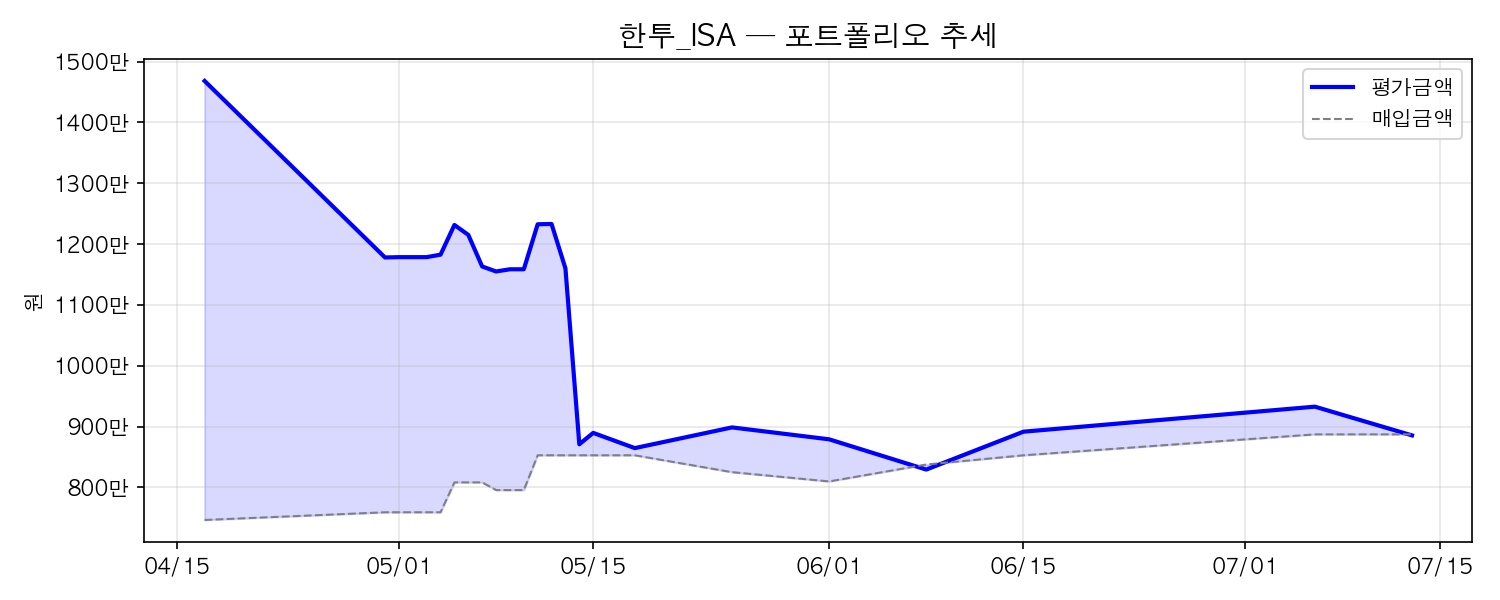
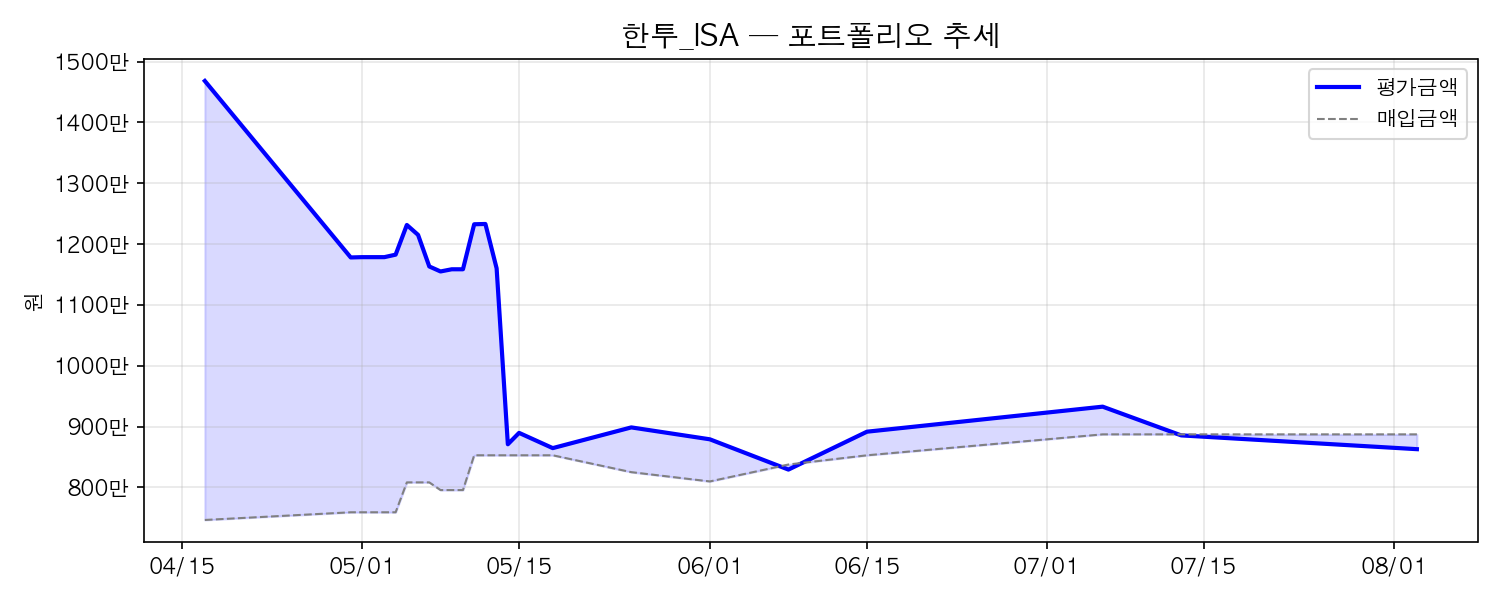
섹션별 주간 리포트 (자동 생성)

diff --git a/_posts/2026-08-07-etf-weekly-week18.md b/_posts/2026-08-07-etf-weekly-week18.md
@@ -1,0 +1,50 @@
+---
+layout: post
+title: "Week 18 — 부모님 연금 ETF 주간 리포트"
+date: 2026-08-07
+categories: [investing, etf]
+tags: [weekly]
+---
+
+> 부모님 연금저축 ETF 실험 — 18주차 기록.
+
+---
+
+## 18주차 성과
+
+### 엄마_연금
+
+| 종목 | 수량 | 평단가 | 종가 | 평가액 | 수익률 |
+|------|------|--------|------|--------|--------|
+| ACE KRX금현물 | 42주 | ₩30,882 | ₩25,920 | ₩1,088,640 | -16.1% |
+| RISE 200 | 9주 | ₩80,163 | ₩99,955 | ₩899,595 | +24.7% |
+| KODEX 미국S&P500 | 34주 | ₩22,947 | ₩24,270 | ₩825,180 | +5.8% |
+| TIGER Fn신재생에너지 | 24주 | ₩28,056 | ₩19,815 | ₩475,560 | -29.4% |
+| KODEX 인도Nifty50 | 32주 | ₩12,525 | ₩12,290 | ₩393,280 | -1.9% |
+| TIGER 원유선물Enhanced(H) | 41주 | ₩6,413 | ₩6,550 | ₩268,550 | +2.1% |
+
+**투자 ₩4,135,767 → 평가 ₩3,950,805 | -184,962원 (-4.5%)**
+
+예수금: ₩2,475,958
+---
+
+### 아빠_연금
+
+| 종목 | 수량 | 평단가 | 종가 | 평가액 | 수익률 |
+|------|------|--------|------|--------|--------|
+| ACE KRX금현물 | 42주 | ₩30,883 | ₩25,920 | ₩1,088,640 | -16.1% |
+| RISE 200 | 9주 | ₩80,165 | ₩99,955 | ₩899,595 | +24.7% |
+| KODEX 미국S&P500 | 34주 | ₩22,945 | ₩24,270 | ₩825,180 | +5.8% |
+| TIGER Fn신재생에너지 | 24주 | ₩28,048 | ₩19,815 | ₩475,560 | -29.4% |
+| KODEX 인도Nifty50 | 32주 | ₩12,535 | ₩12,290 | ₩393,280 | -1.9% |
+| TIGER 원유선물Enhanced(H) | 41주 | ₩6,405 | ₩6,550 | ₩268,550 | +2.2% |
+| PLUS 고배당주 | 1주 | ₩25,370 | ₩23,960 | ₩23,960 | -5.5% |
+
+**투자 ₩4,160,932 → 평가 ₩3,974,765 | -186,167원 (-4.5%)**
+
+예수금: ₩1,861,134
+
+
+---
+
+*데이터: 한국투자증권 KIS Open API / 2026-08-07 장 마감 기준*

diff --git a/_posts/2026-08-07-dividend-weekly-week18.md b/_posts/2026-08-07-dividend-weekly-week18.md
@@ -1,0 +1,32 @@
+---
+layout: post
+title: "Week 18 — ISA 배당 포트 주간 리포트"
+date: 2026-08-07
+categories: [investing, dividend]
+tags: [weekly]
+---
+
+> ISA 배당 포트폴리오 — 18주차 기록.
+
+---
+
+## 18주차 성과
+
+### 한투_ISA
+
+| 종목 | 수량 | 평단가 | 종가 | 평가액 | 수익률 |
+|------|------|--------|------|--------|--------|
+| 삼성화재우 | 5주 | ₩374,400 | ₩384,500 | ₩1,922,500 | +2.7% |
+| KT&G | 10주 | ₩168,190 | ₩178,700 | ₩1,787,000 | +6.2% |
+| 빙그레 | 25주 | ₩73,386 | ₩68,300 | ₩1,707,500 | -6.9% |
+| 고려신용정보 | 175주 | ₩10,209 | ₩9,300 | ₩1,627,500 | -8.9% |
+| KODEX 고배당주 | 94주 | ₩18,052 | ₩16,800 | ₩1,579,200 | -6.9% |
+
+**투자 ₩8,872,110 → 평가 ₩8,623,700 | -248,410원 (-2.8%)**
+
+예수금: ₩4,888
+
+
+---
+
+*데이터: 한국투자증권 KIS Open API / 2026-08-07 장 마감 기준*
